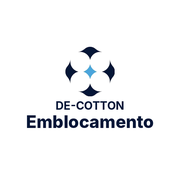
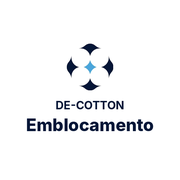
v1.10.5: ícone com mais espaço entre linhas
Claude-Session: https://claude.ai/code/session_01Nmf84eCDdGJfLBLhLhZPr3

Changed region(s): [[0.1389, 0.6389, 0.8611, 0.75], [0.3056, 0.2222, 0.6944, 0.6111]]

diff --git a/sw.js b/sw.js
@@ -1,5 +1,5 @@
 // Service worker: deixa o app e o leitor de códigos disponíveis sem internet
-const CACHE="emblocamento-v32";
+const CACHE="emblocamento-v33";
 const SHELL=["./","./index.html","./manifest.webmanifest","./icon-192.png","./icon-512.png","./icon-180.png","./logo.png"];
 const EXT=["https://cdn.jsdelivr.net/npm/zxing-wasm@2.2.4/dist/iife/reader/index.js","https://cdn.jsdelivr.net/npm/zxing-wasm@2.2.4/dist/reader/zxing_reader.wasm"];
 self.addEventListener("install",e=>{e.waitUntil((async()=>{const c=await caches.open(CACHE);await c.addAll(SHELL);

diff --git a/index.html b/index.html
@@ -95,7 +95,7 @@ main{padding:12px;max-width:640px;margin:0 auto;padding-bottom:40px}
 // Carrega o "pacote" gerado no app principal, confere cada fardinho lido
 // contra o lote do box, conta e devolve as leituras em arquivo.
 // ======================================================================
-const VER="1.10.4";
+const VER="1.10.5";
 const $=s=>document.querySelector(s);
 const esc=v=>String(v??"").replace(/[&<>"']/g,c=>({"&":"&amp;","<":"&lt;",">":"&gt;",'"':"&quot;","'":"&#39;"}[c]));
 const fmt=n=>n==null?"—":Number(n).toLocaleString("pt-BR");
